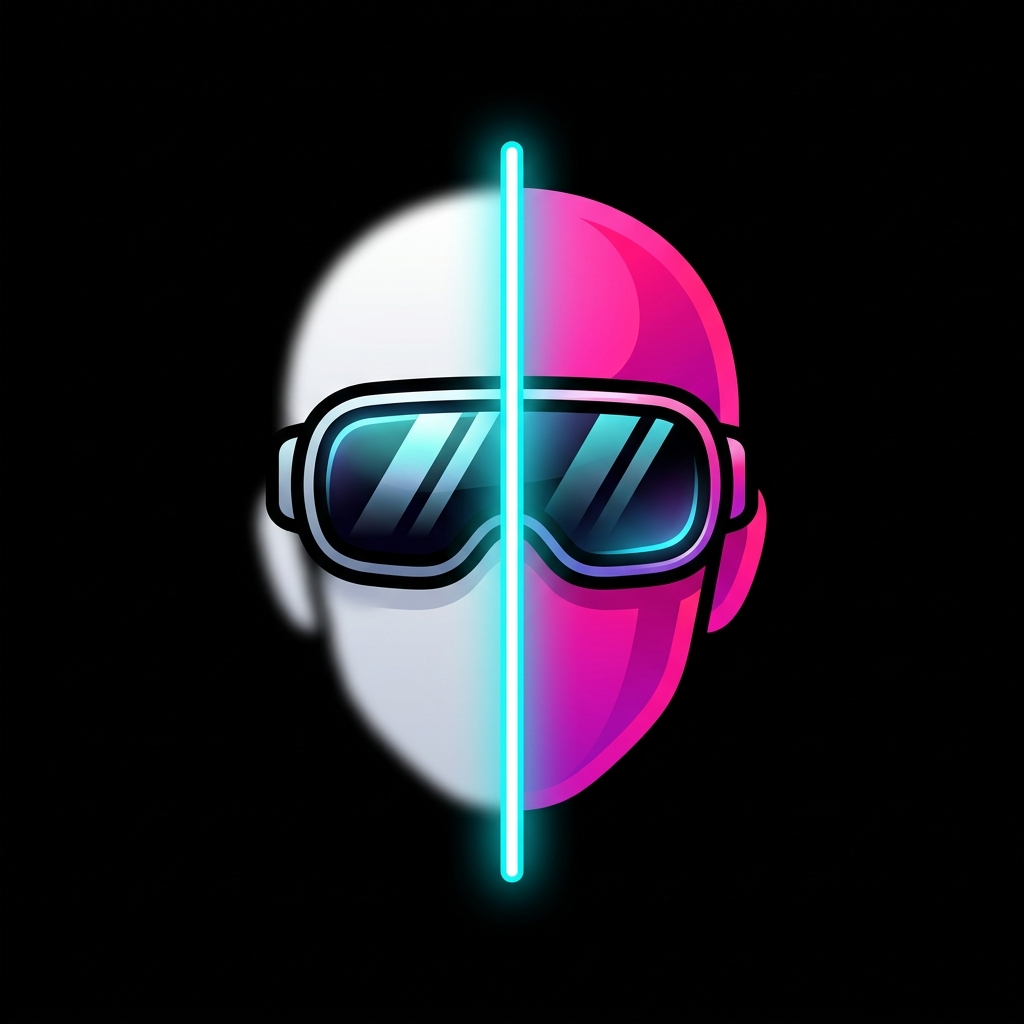
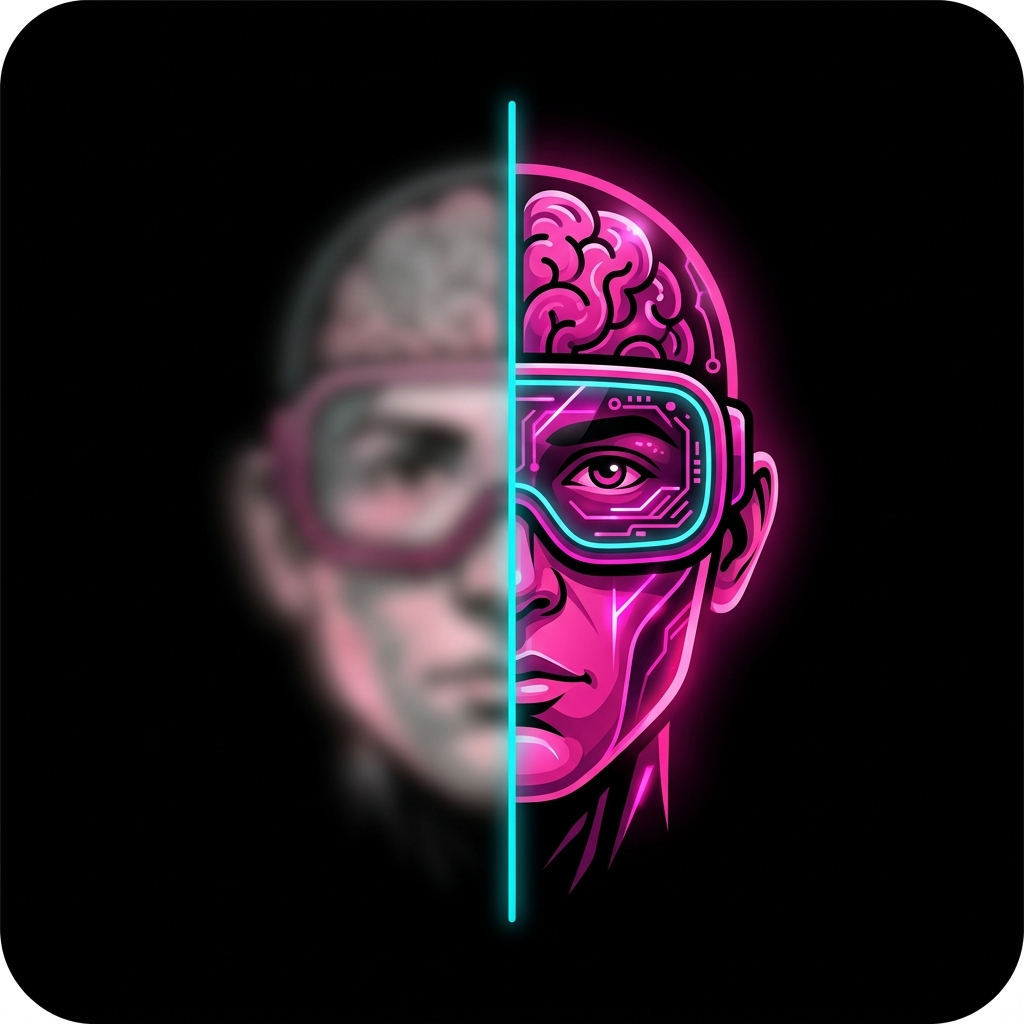
Add files via upload

diff --git a/app.js b/app.js
@@ -25,7 +25,7 @@ const state = {
     selectedDeviceId: "" // Empty means "Auto select back camera"
 };
 
-// --- Offscreen Canvas for Rendering (Saves memory and enables perfect split-screen synchronization) ---
+// --- Offscreen Canvas for Rendering ---
 const offscreenCanvas = document.createElement('canvas');
 const oCtx = offscreenCanvas.getContext('2d');
 
@@ -46,9 +46,6 @@ class VisualArrow {
     reset(canvasWidth, isInitial = false) {
         const side = state.settings.neglectSide;
         
-        // Distribute coordinates randomly to stagger their entries.
-        // If it's the initial setup, spread them across the screen.
-        // If it's a reset (passed edge), start them at randomized distances offscreen.
         let offset = 0;
         if (isInitial) {
             offset = Math.random() * canvasWidth;
@@ -57,10 +54,8 @@ class VisualArrow {
         }
 
         if (side === 'left') {
-            // Left neglect -> guide attention to the left. Flow Right to Left (◀)
             this.x = canvasWidth + offset;
         } else {
-            // Right neglect -> guide attention to the right. Flow Left to Right (▶)
             this.x = -offset;
         }
     }
@@ -72,10 +67,7 @@ class VisualArrow {
 
         const side = state.settings.neglectSide;
         
-        // Speed adjustment requested by user:
-        // Set new "極遅" (1) to match the previous v3 "速い" (1.2 px/f).
-        // Set new "極速" (5) to match twice the previous v3 "極速" (1.5 * 2 = 3.0 px/f).
-        // Interpolated steps:
+        // Speed stepping:
         // Level 1: 1.2px/f, 2: 1.65px/f, 3: 2.1px/f, 4: 2.55px/f, 5: 3.0px/f
         const step = (1.2 + (speedScale - 1) * 0.45);
 
@@ -101,7 +93,6 @@ class VisualArrow {
         ctx.textAlign = 'center';
         ctx.textBaseline = 'middle';
         
-        // Neon glow
         ctx.shadowColor = 'rgba(14, 213, 201, 0.6)';
         ctx.shadowBlur = 8;
 
@@ -128,7 +119,6 @@ const elements = {
     cameraSelect: document.getElementById('camera-select'),
     modeArSplit: document.getElementById('mode-ar-split'),
     
-    // Config controls
     sideLeft: document.getElementById('side-left'),
     sideRight: document.getElementById('side-right'),
     
@@ -178,13 +168,11 @@ function initArrows() {
 
 // --- Setup Event Listeners ---
 function setupEventListeners() {
-    // Panel Toggle
     elements.togglePanelBtn.addEventListener('click', () => {
         elements.controlPanel.classList.toggle('hidden');
         elements.togglePanelBtn.classList.toggle('panel-closed');
     });
 
-    // Camera Toggle
     elements.cameraToggleBtn.addEventListener('click', () => {
         if (state.videoStream) {
             stopCamera();
@@ -193,12 +181,10 @@ function setupEventListeners() {
         }
     });
 
-    // Fullscreen Toggle
     elements.fullscreenBtn.addEventListener('click', () => {
         toggleFullscreen();
     });
 
-    // Listen to native fullscreen changes to update UI state
     document.addEventListener('fullscreenchange', () => {
         updateFullscreenButtonUI();
     });
@@ -206,16 +192,13 @@ function setupEventListeners() {
         updateFullscreenButtonUI();
     });
 
-    // Retry Camera
     elements.retryCameraBtn.addEventListener('click', () => {
         elements.cameraError.classList.add('hidden');
         startCamera();
     });
 
-    // Reset Settings
     elements.resetSettingsBtn.addEventListener('click', resetToDefaults);
 
-    // Neglect Side change
     const handleSideChange = (e) => {
         state.settings.neglectSide = e.target.value;
         const targetWidth = state.activeModes.arSplit ? elements.canvas.width / 2 : elements.canvas.width;
@@ -224,13 +207,11 @@ function setupEventListeners() {
     elements.sideLeft.addEventListener('change', handleSideChange);
     elements.sideRight.addEventListener('change', handleSideChange);
 
-    // Split Screen mode
     elements.modeArSplit.addEventListener('change', (e) => {
         state.activeModes.arSplit = e.target.checked;
         updateOffscreenSize();
     });
 
-    // Camera device select dropdown
     elements.cameraSelect.addEventListener('change', (e) => {
         state.selectedDeviceId = e.target.value;
         if (state.videoStream) {
@@ -238,7 +219,6 @@ function setupEventListeners() {
         }
     });
 
-    // Mode Toggle Bindings
     elements.modeSolidEnable.addEventListener('change', (e) => {
         state.activeModes.solid = e.target.checked;
         toggleSectionActive('section-solid', e.target.checked);
@@ -260,7 +240,6 @@ function setupEventListeners() {
         toggleSectionActive('section-shift', e.target.checked);
     });
 
-    // Sliders Bindings
     elements.solidOpacity.addEventListener('input', (e) => {
         const val = parseInt(e.target.value);
         state.settings.solidOpacity = val / 100;
@@ -318,10 +297,7 @@ function setupEventListeners() {
         elements.shiftZoomVal.textContent = `${val.toFixed(1)}x`;
     });
 
-    // Resize Event
     window.addEventListener('resize', resizeCanvas);
-
-    // Double-tap or Double-click on Canvas to Hide Settings Panel
     setupDoubleTapTrigger();
 }
 
@@ -340,14 +316,12 @@ function toggleFullscreen() {
     const isFull = document.fullscreenElement || document.webkitFullscreenElement;
 
     if (!isFull) {
-        // Request fullscreen
         if (docEl.requestFullscreen) {
             docEl.requestFullscreen().catch(err => console.warn(err));
-        } else if (docEl.webkitRequestFullscreen) { /* iOS / Safari support */
+        } else if (docEl.webkitRequestFullscreen) {
             docEl.webkitRequestFullscreen();
         }
     } else {
-        // Exit fullscreen
         if (document.exitFullscreen) {
             document.exitFullscreen();
         } else if (document.webkitExitFullscreen) {
@@ -373,19 +347,17 @@ function updateFullscreenButtonUI() {
 function setupDoubleTapTrigger() {
     let lastTap = 0;
     
-    // Touch interface
     elements.canvas.addEventListener('touchstart', (e) => {
         const currentTime = new Date().getTime();
         const tapLength = currentTime - lastTap;
         
         if (tapLength < 300 && tapLength > 0) {
             toggleUIVisibility();
-            e.preventDefault(); // Prevent double tap zoom
+            e.preventDefault();
         }
         lastTap = currentTime;
     }, { passive: false });
     
-    // Mouse interface (PC)
     elements.canvas.addEventListener('dblclick', () => {
         toggleUIVisibility();
     });
@@ -394,7 +366,6 @@ function setupDoubleTapTrigger() {
 function toggleUIVisibility() {
     const isHidden = document.body.classList.toggle('ui-hidden');
     
-    // Show toast feedback
     const toast = document.getElementById('double-tap-toast');
     if (toast) {
         toast.textContent = isHidden ? '👁️ 設定を隠しました（ダブルタップで再表示）' : '⚙️ 設定を表示しました';
@@ -429,16 +400,14 @@ function updateOffscreenSize() {
 // --- Device Enumeration for Cameras ---
 async function enumerateCameras() {
     try {
-        // Enforce temporary media permission first so labels are visible
         const tempStream = await navigator.mediaDevices.getUserMedia({ video: true });
-        tempStream.getTracks().forEach(t => t.stop()); // Stop immediately
+        tempStream.getTracks().forEach(t => t.stop());
         
         const devices = await navigator.mediaDevices.enumerateDevices();
         const videoDevices = devices.filter(device => device.kind === 'videoinput');
         
         elements.cameraSelect.innerHTML = '';
         
-        // Add "Auto back camera" default option
         const autoOpt = document.createElement('option');
         autoOpt.value = "";
         autoOpt.textContent = "背面カメラ (自動選択)";
@@ -448,7 +417,6 @@ async function enumerateCameras() {
             return;
         }
 
-        // Keywords for ultra wide lenses
         const ultraWideKeywords = ['ultra', 'super', '0.5x', 'wide', '広角', '超広角', 'fisheye'];
         let autoSelectId = "";
         
@@ -460,7 +428,6 @@ async function enumerateCameras() {
             option.textContent = label;
             elements.cameraSelect.appendChild(option);
             
-            // Prioritize ultra-wide camera automatically as default back camera
             const lowerLabel = label.toLowerCase();
             const isBack = lowerLabel.includes('back') || lowerLabel.includes('rear') || lowerLabel.includes('背面') || lowerLabel.includes('環境') || lowerLabel.includes('out');
             
@@ -469,7 +436,6 @@ async function enumerateCameras() {
             }
         });
         
-        // If a specific wide-angle ID is found, store it as standard target for the "Auto" choice
         if (autoSelectId) {
             state.selectedDeviceId = autoSelectId;
             elements.cameraSelect.value = autoSelectId;
@@ -511,6 +477,39 @@ async function startCamera() {
         state.videoStream = stream;
         elements.video.srcObject = stream;
         
+        // --- Adjusting Focus Distance and Zoom constraints on active video track ---
+        const track = stream.getVideoTracks()[0];
+        if (track) {
+            try {
+                // Check device capabilities (focusMode, focusDistance, zoom)
+                const capabilities = track.getCapabilities ? track.getCapabilities() : {};
+                const advancedConstraints = {};
+                
+                // 1. Focus Control: Force manual mode with maximum distance (infinity focus)
+                // Prevents autofocus hunting/pulsing issues.
+                if (capabilities.focusMode && capabilities.focusMode.includes('manual')) {
+                    advancedConstraints.focusMode = 'manual';
+                    if (capabilities.focusDistance) {
+                        advancedConstraints.focusDistance = capabilities.focusDistance.max;
+                    }
+                }
+                
+                // 2. Zoom Control: Force minimum zoom ratio (forces ultra-wide perspective if available)
+                // Prevents automatic cropping/swapping to closer telephoto lenses.
+                if (capabilities.zoom) {
+                    advancedConstraints.zoom = capabilities.zoom.min;
+                }
+                
+                // Apply constraints if supported
+                if (Object.keys(advancedConstraints).length > 0) {
+                    console.log('Applying advanced track constraints:', advancedConstraints);
+                    await track.applyConstraints({ advanced: [advancedConstraints] });
+                }
+            } catch (constraintErr) {
+                console.warn('Advanced focus/zoom constraints not applicable on this track:', constraintErr);
+            }
+        }
+
         let isStarted = false;
         const triggerPlay = () => {
             if (isStarted) return;
@@ -564,7 +563,6 @@ function stopCamera() {
 
     elements.video.srcObject = null;
     
-    // Clear canvas
     ctx.fillStyle = '#090d16';
     ctx.fillRect(0, 0, elements.canvas.width, elements.canvas.height);
     
@@ -732,7 +730,6 @@ function drawARFrame() {
     }
 }
 
-// Utility function to draw video matching background-size: cover
 function renderCoverVideo(targetCtx, img, imgW, imgH, containerW, containerH) {
     const imgRatio = imgW / imgH;
     const containerRatio = containerW / containerH;
@@ -807,7 +804,6 @@ function resetToDefaults() {
     elements.shiftZoomVal.textContent = '1.3x';
     toggleSectionActive('section-shift', false);
     
-    // Auto-reselect first auto camera option
     state.selectedDeviceId = "";
     elements.cameraSelect.value = "";
     

diff --git a/sw.js b/sw.js
@@ -1,4 +1,4 @@
-const CACHE_NAME = 'usn-ar-cache-v5';
+const CACHE_NAME = 'usn-ar-cache-v6';
 const ASSETS_TO_CACHE = [
   './',
   './index.html',